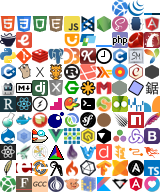
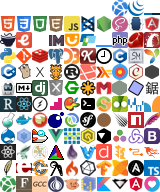
Add Immutable.js documentation
Closes #513.

Changed region(s): [[0.2812, 0.1562, 0.4062, 0.25]]

diff --git a/assets/stylesheets/global/_icons.scss b/assets/stylesheets/global/_icons.scss
@@ -72,6 +72,7 @@
 ._icon-angularjs:before     { background-position: -9rem -1rem; }
 ._icon-coffeescript:before  { background-position: 0 -2rem; @extend %darkIconFix !optional; }
 ._icon-ember:before         { background-position: -1rem -2rem; }
+._icon-immutable:before     { background-position: -3rem -2rem; @extend %darkIconFix !optional; }
 ._icon-jqueryui:before      { background-position: -4rem -2rem; }
 ._icon-jquerymobile:before  { background-position: -5rem -2rem; }
 ._icon-lodash:before        { background-position: -6rem -2rem; }

diff --git a/assets/stylesheets/pages/_simple.scss b/assets/stylesheets/pages/_simple.scss
@@ -25,6 +25,7 @@
 ._gnu,
 ._grunt,
 ._haxe,
+._immutable,
 ._influxdata,
 ._less,
 ._lodash,

diff --git a/lib/docs/scrapers/immutable.rb b/lib/docs/scrapers/immutable.rb
@@ -1,0 +1,58 @@
+module Docs
+  class Immutable < UrlScraper
+    self.name = 'Immutable.js'
+    self.slug = 'immutable'
+    self.type = 'immutable'
+    self.release = '3.8.1'
+    self.base_url = 'https://facebook.github.io/immutable-js/docs/'
+    self.links = {
+      home: 'https://facebook.github.io/immutable-js/',
+      code: 'https://github.com/facebook/immutable-js'
+    }
+
+    html_filters.push 'immutable/clean_html', 'immutable/entries', 'title'
+
+    options[:skip_links] = true
+    options[:container] = '.docContents'
+    options[:root_title] = 'Immutable.js'
+
+    options[:attribution] = <<-HTML
+      &copy; 2014&ndash;2015 Facebook, Inc.<br>
+      Licensed under the 3-clause BSD License.
+    HTML
+
+    stub '' do
+      capybara = load_capybara_selenium
+      capybara.app_host = 'https://facebook.github.io'
+      capybara.visit(URL.parse(self.base_url).path)
+      capybara.execute_script <<-JS
+        var content, event, links, link;
+
+        event = document.createEvent('Event');
+        event.initEvent('hashchange', false, false);
+
+        content = document.querySelector('.docContents section').cloneNode(true);
+        links = Array.prototype.slice.call(document.querySelectorAll('.sideBar .scrollContent a'));
+
+        while (link = links.shift()) {
+          if (!document.body.contains(link)) {
+            document.body.appendChild(link);
+          }
+
+          link.click();
+          dispatchEvent(event);
+          content.innerHTML += document.querySelector('.docContents').innerHTML;
+
+          document.querySelectorAll('.sideBar .scrollContent .groupTitle').forEach(function(el) {
+            if (el.textContent == 'Types') {
+              Array.prototype.unshift.apply(links, Array.prototype.slice.call(el.parentNode.querySelectorAll('a')));
+            }
+          });
+        }
+
+        document.querySelector('.docContents').innerHTML = content.innerHTML;
+      JS
+      capybara.html
+    end
+  end
+end

diff --git a/lib/docs/filters/immutable/clean_html.rb b/lib/docs/filters/immutable/clean_html.rb
@@ -1,0 +1,48 @@
+module Docs
+  class Immutable
+    class CleanHtmlFilter < Filter
+      def call
+        css('section', 'span', 'div[data-reactid]').each do |node|
+          node.before(node.children).remove
+        end
+
+        css('.codeBlock').each do |node|
+          node.name = 'pre'
+          node.content = node.content
+          node['data-language'] = 'js'
+        end
+
+        css('*[data-reactid]').remove_attr('data-reactid')
+        css('a[target]').remove_attr('target')
+
+        css('a[href^="#"]').each do |node|
+          node['href'] = node['href'].sub(/\A#\//, '#').gsub('/', '.').downcase
+        end
+
+        type = type_id = nil
+        css('*').each do |node|
+          if node.name == 'h1'
+            node['id'] = type_id = node.content.strip.downcase
+            type = node.content.strip
+          elsif node.name == 'h3'
+            node['id'] = node.content.strip.downcase
+            node['id'] = node['id'].remove('()') unless node['id'] == "#{type_id}()"
+
+            unless node['id'].start_with?(type_id)
+              node.content = "#{type}##{node.content}"
+              node['id'] = "#{type_id}.#{node['id']}" unless node['id'].start_with?("#{type_id}.")
+            end
+          end
+        end
+
+        css('h4.groupTitle').each do |node|
+          node.name = 'h2'
+        end
+
+        css('*[class]').remove_attr('class')
+
+        doc
+      end
+    end
+  end
+end

diff --git a/lib/docs/filters/immutable/entries.rb b/lib/docs/filters/immutable/entries.rb
@@ -1,0 +1,23 @@
+module Docs
+  class Immutable
+    class EntriesFilter < Docs::EntriesFilter
+      def additional_entries
+        entries = []
+        type = nil
+
+        css('*').each do |node|
+          if node.name == 'h1'
+            name = node.content
+            type = node.content.split('.').first
+            entries << [name, node['id'], type]
+          elsif node.name == 'h3'
+            name = node.content
+            entries << [name, node['id'], type]
+          end
+        end
+
+        entries
+      end
+    end
+  end
+end
